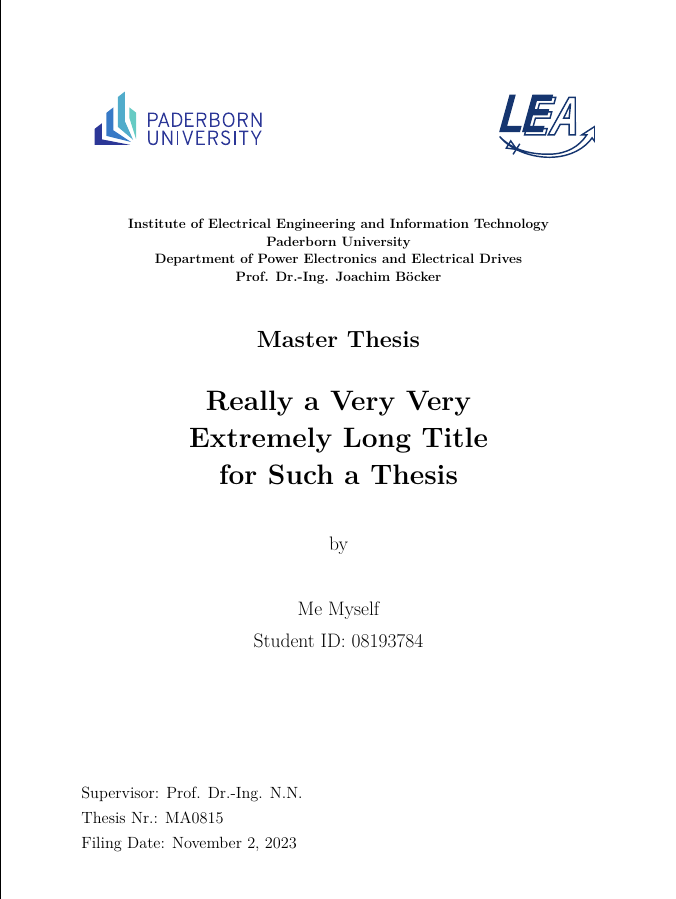
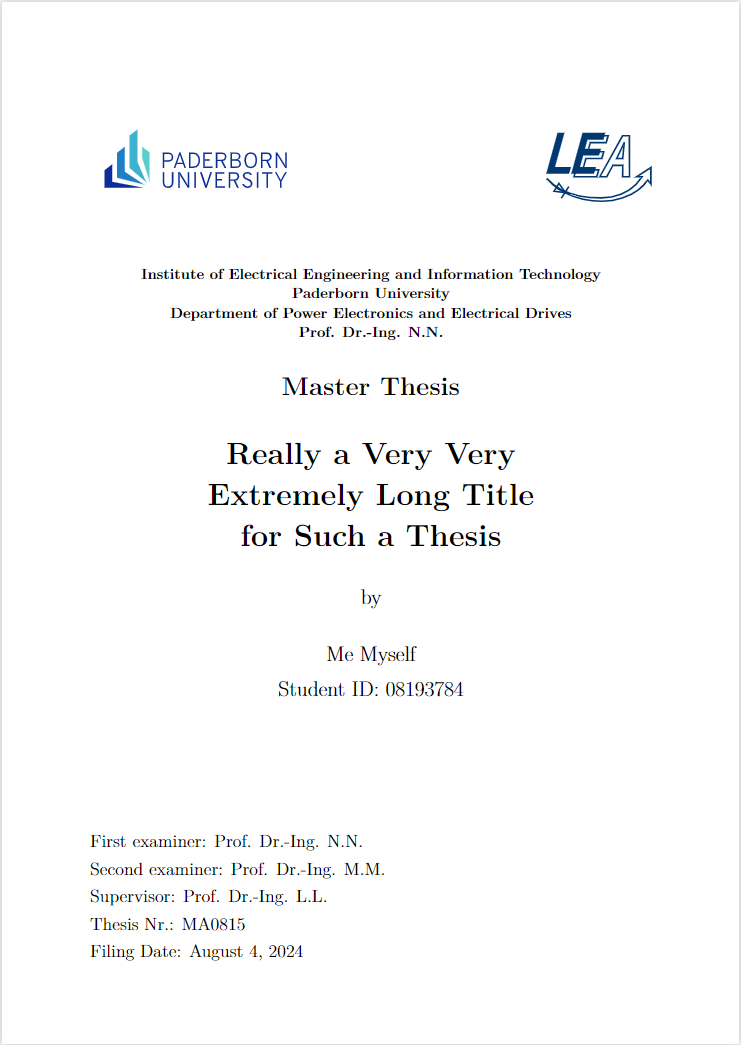
supervisior's names update

diff --git a/LEA_Thesis_Template/main.tex b/LEA_Thesis_Template/main.tex
@@ -1,32 +1,34 @@
 %\documentclass[online, deutsch]{LEAthesis}
 %\documentclass[deutsch]{LEAthesis}
-%\documentclass[english]{LEAthesis}
+\documentclass[english]{LEAthesis}
 % \documentclass[online,english]{LEAthesis}
-\documentclass[english,diss]{LEAthesis}
+% \documentclass[english,diss]{LEAthesis}
 % \documentclass[english,diss,final]{LEAthesis}
 
 %% Data for Bachelor/Master
-% \title{Really a Very Very\\ Extremely Long Title\\ for Such a Thesis}
-% \shorttitle{Title in Short}
-% \author{Me Myself}
-% \thesistype{Master Thesis}
-% \thesisnr{MA0815}
-% \matrnr{08193784}
-% \supervisora{Prof. Dr.-Ing. Joachim Böcker}
-% \supervisorb{Prof. Dr.-Ing. N.N.}
-% \filingdate{\today}
-
-% %% Data for Dissertation
-\title{Really a Very Very Extremely Long Title for Such a Thesis}
+\title{Really a Very Very\\ Extremely Long Title\\ for Such a Thesis}
 \shorttitle{Title in Short}
 \author{Me Myself}
-\supervisora{Prof. Dr.-Ing. Joachim Böcker}
-\supervisorb{Prof. Dr.-Ing. N.N.}
-\birthdate{30.02.1999}
-\birthplace{Hintertupfingen}
-\examdate{31.02.2025}
-\thesisnr{333}
-\publicationyear{2030}
+\thesistype{Master Thesis}
+\thesisnr{MA0815}
+\matrnr{08193784}
+\supervisora{Prof. Dr.-Ing. N.N.}
+\supervisorb{Prof. Dr.-Ing. M.M.}
+\supervisorc{Prof. Dr.-Ing. L.L.}
+\filingdate{\today}
+
+% %% Data for Dissertation
+% \title{Really a Very Very Extremely Long Title for Such a Thesis}
+% \shorttitle{Title in Short}
+% \author{Me Myself}
+% \supervisora{Prof. Dr.-Ing. N.N.}
+% \supervisorb{Prof. Dr.-Ing. M.M.}
+% \supervisorc{Prof. Dr.-Ing. L.L.}
+% \birthdate{30.02.1999}
+% \birthplace{Hintertupfingen}
+% \examdate{31.02.2025}
+% \thesisnr{333}
+% \publicationyear{2030}
 
 \bibliography{references.bib}
 
